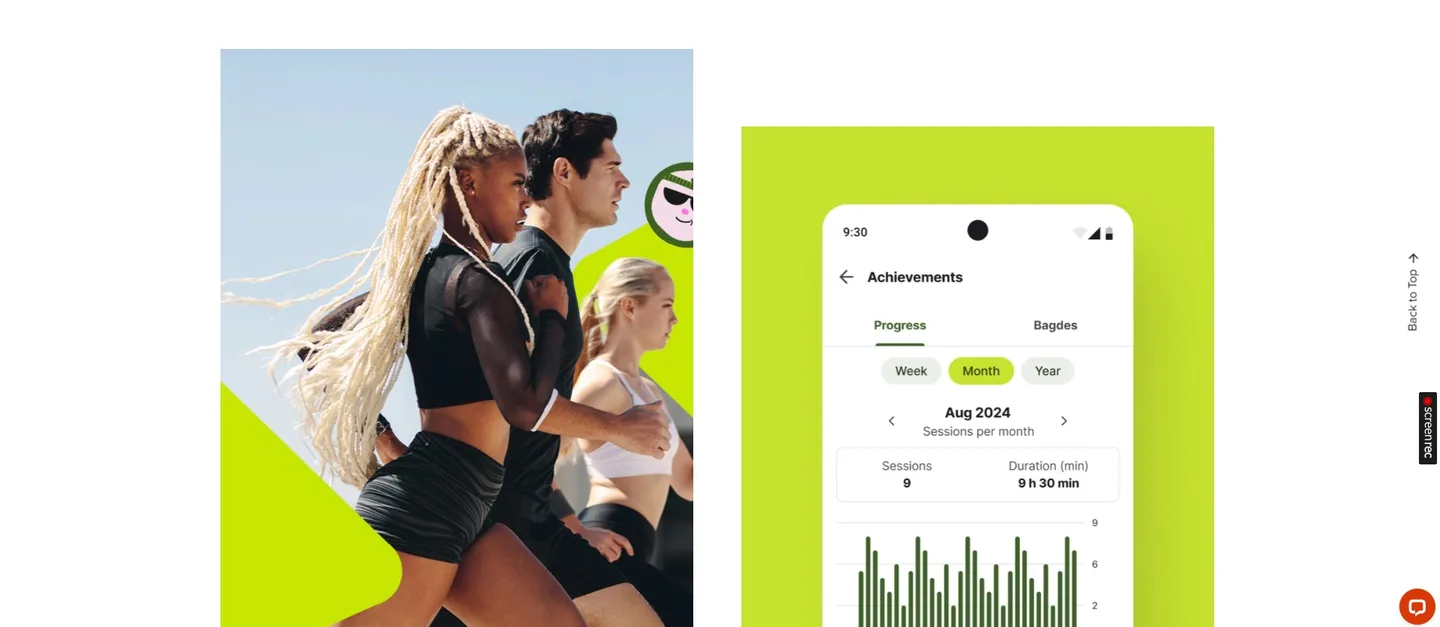
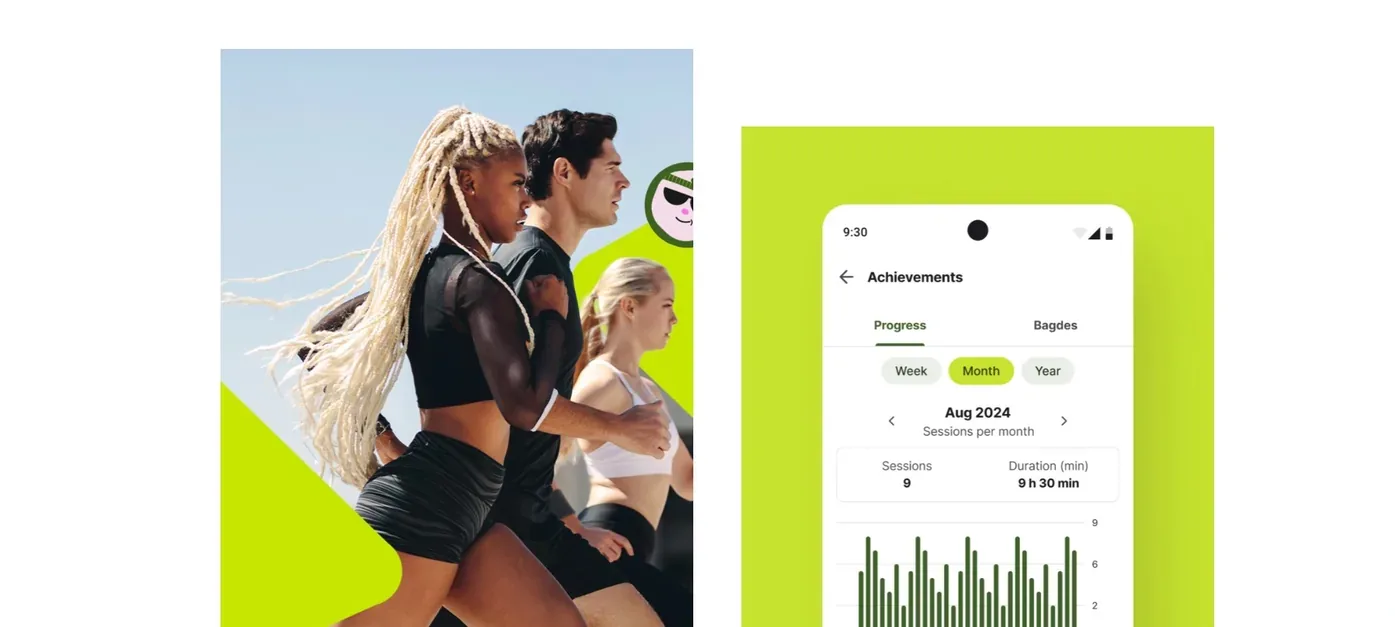
Replace two project images and clean the screen-recorder artefacts
Two of the six client-project screenshots were not usable. The Lumina Studio
image carried the headline "Timeless Sophience", which is not a word, and the
Apex Logistics dashboard was branded ARCHEON STUDIO rather than the client;
both were square, unlike every real capture. They are drawn scenes now, as the
Pipefy engagement already was - an operations workspace with projects,
deadlines, activity and an upcoming week, and a server-rendered studio site
with its work grid and build budget.

The three remaining captures were re-cropped. All three carried a screenrec
watermark down the right edge; premium-fashion also had a browser scrollbar
and a chat bubble, modular-furniture a cookie banner across the bottom, and
fitness-platform a chat widget and a Back to Top tab. multi-brand was already
clean and is untouched. Declared image dimensions follow the new crops.

diff --git a/src/components/ProjectScenes.jsx b/src/components/ProjectScenes.jsx
@@ -1532,9 +1532,253 @@ function WordPressPlugin() {
   )
 }
 
+
+/* ------------------------------------------------------------------ */
+/* Delivered projects without a usable screenshot                      */
+/* ------------------------------------------------------------------ */
+
+/**
+ * Apex Logistics - the internal operations workspace: what is running, what is
+ * due, and the activity behind it, on one screen.
+ */
+function ApexLogistics({ id }) {
+  const A = C.accent
+  const SX = 146
+
+  const projects = [
+    ['Rotterdam hub migration', 'Nordkust BV', '12 Sep', 82, C.green],
+    ['Fleet telematics rollout', 'Vantage Freight', '19 Sep', 64, C.green],
+    ['Customs API integration', 'Meridian Cargo', '26 Sep', 41, C.amber],
+    ['Warehouse slotting audit', 'Nordkust BV', '03 Oct', 28, C.amber],
+    ['Driver app pilot', 'Vantage Freight', '10 Oct', 12, C.muted],
+  ]
+
+  return (
+    <>
+      <Card />
+      <BrowserBar label="Operations workspace" />
+
+      {/* Sidebar */}
+      <path d={`M0 40 H${SX} V400 H14 A14 14 0 0 1 0 386 Z`} fill={C.panel} />
+      <line x1={SX} y1="40" x2={SX} y2="400" stroke={C.border} />
+      <rect x="16" y="56" width="22" height="22" rx="6" fill={A} />
+      <T x={27} y={71} fill="#ffffff" size={9} weight="700" anchor="middle">
+        A
+      </T>
+      <T x={46} y={71} fill={C.ink} size={9.6} weight="700">
+        Apex Logistics
+      </T>
+      {['Dashboard', 'Projects', 'Tasks', 'Calendar', 'Documents', 'Invoicing'].map((label, i) => {
+        const y = 100 + i * 26
+        const on = label === 'Dashboard'
+        return (
+          <g key={label}>
+            {on ? <rect x="10" y={y - 12} width={SX - 20} height="22" rx="6" fill="#ffffff" stroke={C.border} /> : null}
+            <rect x="20" y={y - 6} width="9" height="9" rx="2" fill={on ? A : C.muted} fillOpacity={on ? 1 : 0.5} />
+            <T x={36} y={y + 2} fill={on ? C.ink : C.muted} size={8.6} weight={on ? '700' : '400'}>
+              {label}
+            </T>
+          </g>
+        )
+      })}
+      <rect x="10" y="332" width={SX - 20} height="46" rx="8" fill={C.accentSoft} />
+      <T x={22} y={350} fill={A} size={7.4} weight="700">
+        TYPESCRIPT
+      </T>
+      <T x={22} y={362} fill={C.ink} size={7.2}>
+        Strict mode · 0 any
+      </T>
+      <T x={22} y={372} fill={C.muted} size={6.8}>
+        Typed API contracts
+      </T>
+
+      {/* Header */}
+      <T x={166} y={68} fill={C.ink} size={13} weight="700">
+        Good morning, Alex
+      </T>
+      <T x={166} y={83} fill={C.muted} size={8.4}>
+        Five active projects · two deadlines this week
+      </T>
+      <rect x="530" y="54" width="90" height="26" rx="7" fill={A} />
+      <T x={575} y={70} fill="#ffffff" size={8.2} weight="700" anchor="middle">
+        New project
+      </T>
+      <line x1="166" y1="96" x2="620" y2="96" stroke={C.hair} />
+
+      {/* Stat tiles */}
+      {[
+        ['ACTIVE', '5', null],
+        ['ON TRACK', '3', C.green],
+        ['DUE THIS WEEK', '2', C.amber],
+        ['UNBILLED', '€ 41k', null],
+      ].map(([label, value, dot], i) => (
+        <g key={label}>
+          <rect x={166 + i * 116} y="106" width="106" height="48" rx="8" fill={C.panel} stroke={C.border} />
+          <T x={178 + i * 116} y={124} fill={C.muted} size={7} weight="600">
+            {label}
+          </T>
+          <T x={178 + i * 116} y={144} fill={C.ink} size={15} weight="700">
+            {value}
+          </T>
+          {dot ? <circle cx={260 + i * 116} cy={139} r="4" fill={dot} /> : null}
+        </g>
+      ))}
+
+      {/* Project table */}
+      <rect x="166" y="166" width="286" height="218" rx="9" fill="#ffffff" stroke={C.border} />
+      <T x={178} y={186} fill={C.ink} size={9} weight="700">
+        Projects
+      </T>
+      <T x={440} y={186} fill={C.muted} size={7.4} anchor="end">
+        Progress
+      </T>
+      <line x1="166" y1="194" x2="452" y2="194" stroke={C.hair} />
+      {projects.map(([name, client, due, pct, bar], i) => (
+        <g key={name}>
+          <T x={178} y={214 + i * 36} fill={C.ink} size={8} weight="600">
+            {name}
+          </T>
+          <T x={178} y={225 + i * 36} fill={C.muted} size={6.8}>
+            {client} · due {due}
+          </T>
+          <rect x={178} y={230 + i * 36} width="200" height="4" rx="2" fill={C.hair} />
+          <rect x={178} y={230 + i * 36} width={2 * pct} height="4" rx="2" fill={bar} />
+          <T x={440} y={228 + i * 36} fill={C.ink} size={7.6} weight="700" anchor="end">
+            {pct}%
+          </T>
+        </g>
+      ))}
+
+      {/* Activity chart */}
+      <rect x="462" y="166" width="158" height="104" rx="9" fill="#ffffff" stroke={C.border} />
+      <T x={474} y={186} fill={C.ink} size={8.4} weight="700">
+        Activity
+      </T>
+      <T x={608} y={186} fill={C.muted} size={6.8} anchor="end">
+        30 days
+      </T>
+      {[38, 52, 30, 61, 44, 72, 56, 80, 48, 66, 88, 70].map((v, i) => (
+        <rect key={i} x={474 + i * 11.6} y={258 - v * 0.6} width="7.6" height={v * 0.6} rx="2" fill={A} fillOpacity={0.35 + (i / 12) * 0.55} />
+      ))}
+      <line x1="474" y1="258" x2="610" y2="258" stroke={C.hair} />
+
+      {/* Upcoming */}
+      <rect x="462" y="280" width="158" height="104" rx="9" fill="#ffffff" stroke={C.border} />
+      <T x={474} y={300} fill={C.ink} size={8.4} weight="700">
+        Upcoming
+      </T>
+      {[
+        ['MON', 'Customs API review', C.amber],
+        ['WED', 'Hub migration go-live', C.green],
+        ['THU', 'Invoice run · Q3', A],
+        ['FRI', 'Driver app demo', C.muted],
+      ].map(([day, task, color], i) => (
+        <g key={task}>
+          <rect x={474} y={310 + i * 18} width="26" height="13" rx="3" fill={color} fillOpacity="0.14" />
+          <T x={487} y={319 + i * 18} fill={color} size={6.4} weight="700" anchor="middle">
+            {day}
+          </T>
+          <T x={506} y={320 + i * 18} fill={C.ink} size={7.4}>
+            {task}
+          </T>
+        </g>
+      ))}
+    </>
+  )
+}
+
+/**
+ * Lumina Studio - the public site: one server-rendered page carrying the
+ * studio's work, with the performance budget it was built to.
+ */
+function LuminaStudio({ id }) {
+  const INK = '#12100e'
+  const works = [
+    [P.studioWork1, 'Casa Ombra', 'Interiors · Milan'],
+    [P.studioWork2, 'Palazzo Vieri', 'Interiors · Florence'],
+    [P.studioWork3, 'Villa Sereno', 'Architecture · Como'],
+  ]
+
+  return (
+    <>
+      <Card />
+      <BrowserBar label="Next.js · server-rendered" />
+
+      {/* Site header */}
+      <T x={26} y={66} fill={INK} size={12} weight="700">
+        LUMINA STUDIO
+      </T>
+      {['Projects', 'Services', 'Studio', 'Journal'].map((label, i) => (
+        <T key={label} x={362 + i * 54} y={65} fill={C.muted} size={8.4}>
+          {label}
+        </T>
+      ))}
+      <rect x="566" y="52" width="48" height="20" rx="10" fill={INK} />
+      <T x={590} y={65} fill="#ffffff" size={7.6} weight="600" anchor="middle">
+        Contact
+      </T>
+      <line x1="0" y1="82" x2="640" y2="82" stroke={C.hair} />
+
+      {/* Hero */}
+      <Photo id={`${id}-hero`} src={P.studioHero} x={26} y={98} w={588} h={126} r={10} />
+      <rect x="26" y="98" width="588" height="126" rx="10" fill={INK} opacity="0.42" />
+      <T x={52} y={152} fill="#ffffff" size={22} weight="700">
+        Spaces made to age well
+      </T>
+      <T x={52} y={174} fill="#e8e4de" size={9}>
+        Interiors and architecture for people who intend to stay.
+      </T>
+      <rect x="52" y="186" width="104" height="26" rx="13" fill="#ffffff" />
+      <T x={104} y={203} fill={INK} size={8.4} weight="700" anchor="middle">
+        See the work
+      </T>
+
+      {/* Featured work */}
+      <T x={26} y={248} fill={INK} size={10.5} weight="700">
+        Selected projects
+      </T>
+      <T x={614} y={248} fill={C.muted} size={8} anchor="end">
+        All projects →
+      </T>
+      <line x1="26" y1="256" x2="614" y2="256" stroke={C.hair} />
+      {works.map(([src, title, meta], i) => (
+        <g key={title}>
+          <Photo id={`${id}-w${i}`} src={src} x={26 + i * 199} y={268} w={190} h={72} r={8} />
+          <T x={26 + i * 199} y={356} fill={INK} size={9} weight="700">
+            {title}
+          </T>
+          <T x={26 + i * 199} y={368} fill={C.muted} size={7.6}>
+            {meta}
+          </T>
+        </g>
+      ))}
+
+      {/* Build budget */}
+      <line x1="26" y1="378" x2="614" y2="378" stroke={C.hair} />
+      {[
+        ['LCP', '1.1 s'],
+        ['CLS', '0.00'],
+        ['SEO', '100'],
+        ['ROUTES', 'Statically generated'],
+      ].map(([label, value], i) => (
+        <g key={label}>
+          <T x={26 + i * 150} y={392} fill={C.muted} size={7} weight="700">
+            {label}
+          </T>
+          <T x={62 + i * 150} y={392} fill={INK} size={7.4} weight="600">
+            {value}
+          </T>
+        </g>
+      ))}
+    </>
+  )
+}
+
 /* ------------------------------------------------------------------ */
 
 export const extraScenes = {
+  apexLogistics: ApexLogistics,
+  luminaStudio: LuminaStudio,
   shopifyTheme: ShopifyTheme,
   shopifyHeadless: ShopifyHeadless,
   shopifyApp: ShopifyApp,

diff --git a/src/data/content.js b/src/data/content.js
@@ -18,8 +18,6 @@ import premiumFashionImg from '../assets/projects/premium-fashion.webp'
 import modularFurnitureImg from '../assets/projects/modular-furniture.webp'
 import multiBrandImg from '../assets/projects/multi-brand.webp'
 import fitnessPlatformImg from '../assets/projects/fitness-platform.webp'
-import apexLogisticsImg from '../assets/projects/apex-logistics.webp'
-import luminaStudioImg from '../assets/projects/lumina-studio.webp'
 
 /* Identity - the same in every language. */
 export const profile = {
@@ -87,26 +85,22 @@ export const certifications = [
 const projectMedia = {
   'premium-fashion': {
     image: premiumFashionImg,
-    imageSize: [1440, 682],
+    imageSize: [1380, 682],
     tech: ['React.js', 'Node.js'],
   },
   'modular-furniture': {
     image: modularFurnitureImg,
-    imageSize: [1440, 688],
+    imageSize: [1425, 636],
     tech: ['React.js', 'Node.js'],
   },
   'multi-brand': { image: multiBrandImg, imageSize: [1440, 702], tech: ['AngularJS', 'Nest.js'] },
   'fitness-platform': {
     image: fitnessPlatformImg,
-    imageSize: [1440, 627],
+    imageSize: [1395, 627],
     tech: ['React Native', 'Mobile App Design'],
   },
-  'apex-logistics': {
-    image: apexLogisticsImg,
-    imageSize: [1024, 1024],
-    tech: ['React.js', 'TypeScript'],
-  },
-  'lumina-studio': { image: luminaStudioImg, imageSize: [1024, 1024], tech: ['Next.js', 'CSS3'] },
+  'apex-logistics': { visual: 'apexLogistics', tech: ['React.js', 'TypeScript'] },
+  'lumina-studio': { visual: 'luminaStudio', tech: ['Next.js', 'CSS3'] },
   'pipefy-protocols': { visual: 'pipefy', tech: ['Pipefy', 'Process Automation', 'Integrations'] },
 }
 

diff --git a/src/components/visualPhotos.jsx b/src/components/visualPhotos.jsx
@@ -21,6 +21,10 @@ import oliveGrove from '../assets/examples/olive-grove.webp'
 import oliveOilBottle from '../assets/examples/olive-oil-bottle.webp'
 import preservesJars from '../assets/examples/preserves-jars.webp'
 import quiltedOuterwear from '../assets/examples/quilted-outerwear.webp'
+import studioHero from '../assets/examples/studio-hero.webp'
+import studioWork1 from '../assets/examples/studio-work-1.webp'
+import studioWork2 from '../assets/examples/studio-work-2.webp'
+import studioWork3 from '../assets/examples/studio-work-3.webp'
 import trailShoes from '../assets/examples/trail-shoes.webp'
 import waterBottle from '../assets/examples/water-bottle.webp'
 import woolCoat from '../assets/examples/wool-coat.webp'
@@ -39,6 +43,10 @@ export const P = {
   oliveOilBottle,
   preservesJars,
   quiltedOuterwear,
+  studioHero,
+  studioWork1,
+  studioWork2,
+  studioWork3,
   trailShoes,
   waterBottle,
   woolCoat,
